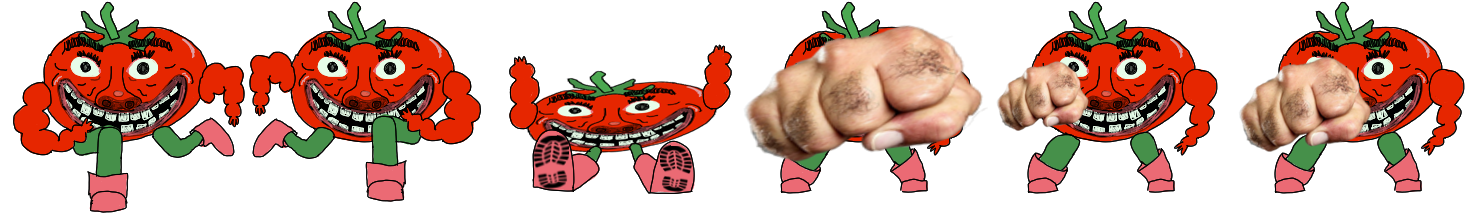
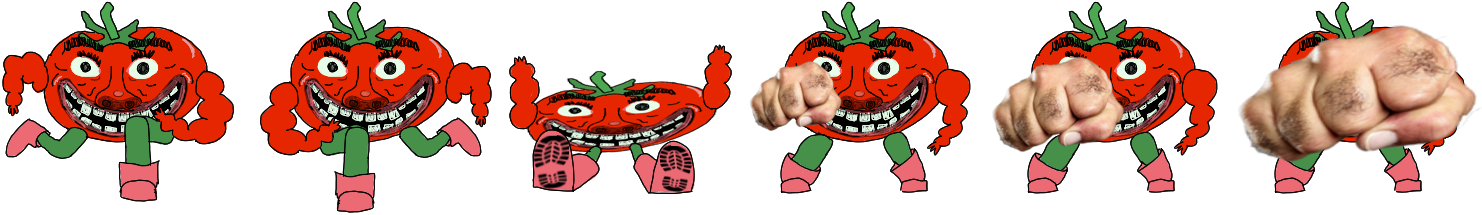
more actionables & fixed char_sp

Changed region(s): [[0.0, 0.2233, 0.3414, 1.0], [0.4966, 0.1116, 0.776, 0.7535], [0.8381, 0.1116, 1.0, 0.7535]]

diff --git a/src/Prefabs/Player.js b/src/Prefabs/Player.js
@@ -13,7 +13,11 @@ class Player extends Phaser.Physics.Arcade.Sprite{
 
         this.POS_LEFT = width/3 - this.width/5
         this.POS_RIGHT = width*2/3 + this.width/5
-        this.target_pos = 'right'
+        this.POS_RUN = height/2 - this.height/6
+        this.POS_SLIDE = height/2 + this.height/5
+        this.target_pos = ['right', 'run']
+        this.actionable = {slide: true, punch: true}
+
 
         this.body.setCircle(this.width/4,this.width/4,this.height/6)
     }
@@ -29,33 +33,71 @@ class Player extends Phaser.Physics.Arcade.Sprite{
             this.x += (this.POS_RIGHT - this.x)/10
         }
     }
+    returnRun(){
+        if(this.y > this.POS_RUN){
+            this.y -= (this.y - this.POS_RUN)/10
+        }
+    }
+    slideSlide(){
+        if(this.y < this.POS_SLIDE){
+            this.y += (this.POS_SLIDE - this.y)/3
+        }
+    }
 
 
 
 
     update(){
         //keypress
-        if(Phaser.Input.Keyboard.JustDown(keyLEFT)){
+        //rules: you can move lr if you are not currently actioning, but you may action mid-movement.
+        //you can slide if you arent sliding, but you can slide during movement or cancel a punch
+        //you can punch if you arent punching, but you can punch during movement or cancel a slide
+        //there is a delay between actions of the same type (eg slide -> slide), and the delay carries regardless of action cancels
+        //you cannot slide for 0.25 seconds after your last slide ends.
+        if(this.actionState == 'running' && Phaser.Input.Keyboard.JustDown(keyLEFT)){
             console.log(" L pressed")
-            this.target_pos = 'left'
+            this.target_pos[0] = 'left'
         }
-        if(Phaser.Input.Keyboard.JustDown(keyRIGHT)){
+        if(this.actionState == 'running' && Phaser.Input.Keyboard.JustDown(keyRIGHT)){
             console.log(" R pressed")
-            this.target_pos = 'right'
+            this.target_pos[0] = 'right'
         }
-        if(Phaser.Input.Keyboard.JustDown(keySLIDE)){
-            this.play('slide')
+        if(this.actionable.slide && Phaser.Input.Keyboard.JustDown(keySLIDE)){
+            this.actionable.slide = false
             this.actionState = 'sliding'
+            this.target_pos[1] = 'slide'
+
+            this.play('slide')
             this.on('animationcomplete', () => {
                 console.log('done sliding')
                 this.play('running')
+                this.target_pos[1] = 'run'
                 this.actionState = 'running'
+                this.scene.time.delayedCall(250, () => {this.actionable.slide = true}, null, this)
+            })
+        }
+        if(this.actionable.punch && Phaser.Input.Keyboard.JustDown(keyPUNCH)){
+            this.actionable.punch = true
+            this.actionState = 'punching'
+            this.target_pos[1] = 'run'
+
+            this.play('punch')
+            this.on('animationcomplete', () => {
+                console.log('done punching')
+                this.play('running')
+                this.target_pos[1] = 'run'
+                this.actionState = 'running'
+                this.scene.time.delayedCall(250, () => {this.actionable.punch = true}, null, this)
             })
         }
         //move
-        switch(this.target_pos){
+        switch(this.target_pos[0]){
             case 'left': this.incLeft(); break;
             case 'right': this.incRight(); break;
+        }
+        switch(this.target_pos[1]){
+            case 'run': this.returnRun(); break;
+            case 'slide': this.slideSlide(); break;
         }
 
 

diff --git a/src/Scenes/MainMenu.js b/src/Scenes/MainMenu.js
@@ -57,7 +57,7 @@ class MainMenu extends Phaser.Scene {
         this.anims.create({
             key: 'punch',
             frameRate: 7,
-            repeat: -1, 
+            repeat: 0, 
             frames: this.anims.generateFrameNumbers('char', {
                 start:3,
                 end:5
